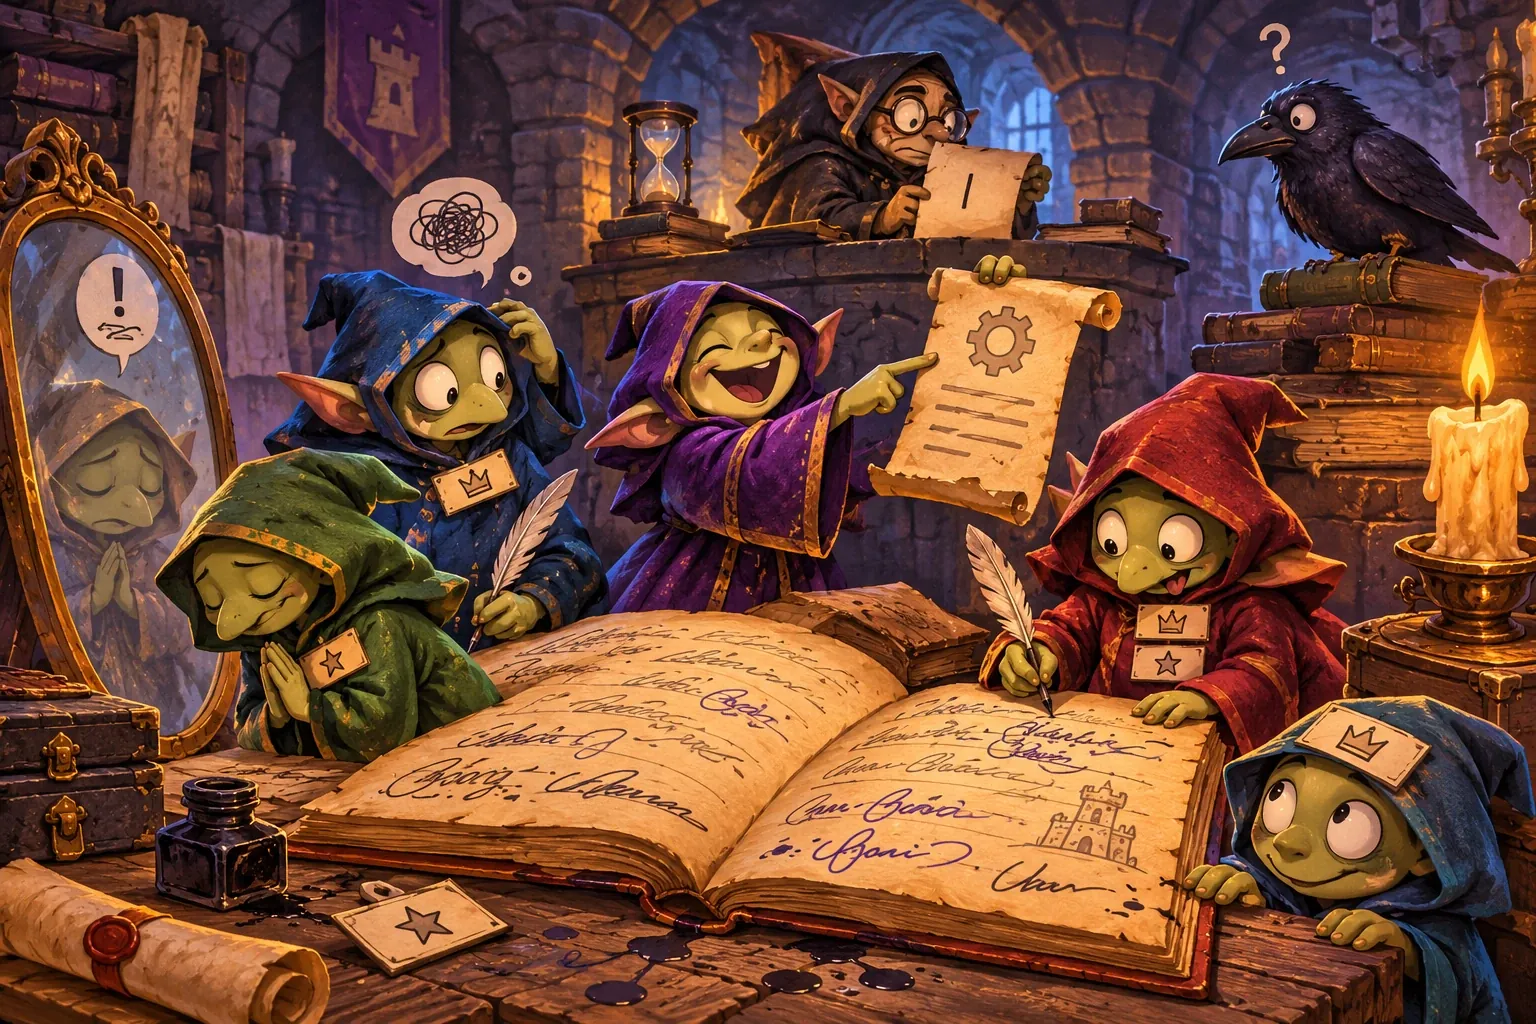
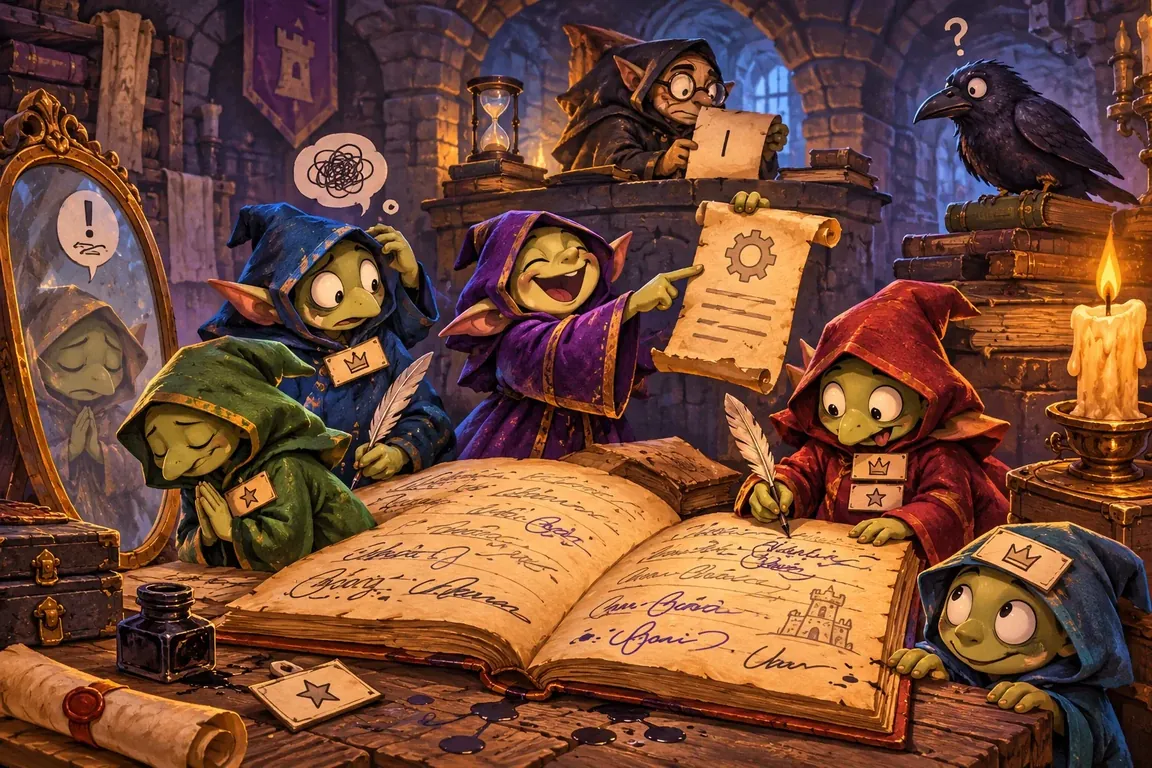
Shrink the illustrations in Borrowed Names in the Ledger
Illustrations now display at most 36rem wide, centred, instead of
filling the text column. Their width and height attributes match that
display size, so they stay small even when a browser still uses a
cached stylesheet without the figure rules. A general rule keeps every
prose image within the column. The scribes image is downscaled to
1152x768 (twice the display width); the Gemini overview keeps its full
resolution, because its link opens it for reading the labels.

Claude-Session: https://claude.ai/code/session_014SKepHFiFCmCRpyYcPp84P

Changed region(s): [[0.5312, 0.8125, 0.5625, 0.8438]]

diff --git a/styles.css b/styles.css
@@ -598,14 +598,20 @@ a:focus-visible {
   padding-left: 1.3rem;
 }
 
+.prose img {
+  max-width: 100%;
+  height: auto;
+}
+
+/* Illustrations stay narrower than the text column. */
 .prose .illustration {
-  margin: 2.5rem 0;
+  max-width: 36rem;
+  margin: 2.5rem auto;
 }
 
 .prose .illustration img {
   display: block;
   width: 100%;
-  height: auto;
   border: 1px solid var(--line-strong);
   border-radius: var(--radius-stone);
   box-shadow: var(--shadow-tablet);

diff --git a/content/experiments/borrowed-names-in-the-ledger.md b/content/experiments/borrowed-names-in-the-ledger.md
@@ -16,7 +16,7 @@ date: 2026-11-07
 </aside>
 
 <figure class="illustration">
-  <img src="https://dungeonkueper.github.io/the-idea-keep/images/experiments/borrowed-names-in-the-ledger/scribes-sharing-one-ledger.webp" width="1536" height="1024" loading="lazy" alt="Hooded goblin scribes crowd around one open ledger full of different signatures. They wear paper name tags with crowns and stars; one points proudly at a scroll with a gear, one prays in front of a mirror, and a raven with a question mark watches from a stack of books.">
+  <img src="https://dungeonkueper.github.io/the-idea-keep/images/experiments/borrowed-names-in-the-ledger/scribes-sharing-one-ledger.webp" width="576" height="384" loading="lazy" alt="Hooded goblin scribes crowd around one open ledger full of different signatures. They wear paper name tags with crowns and stars; one points proudly at a scroll with a gear, one prays in front of a mirror, and a raven with a question mark watches from a stack of books.">
   <figcaption>The scribes and their borrowed name tags, as illustrated by ChatGPT from this entry.</figcaption>
 </figure>
 
@@ -180,7 +180,7 @@ The scribes above came from ChatGPT. Gemini produced an overview of both rounds
 inside a stone circle:
 
 <figure class="illustration">
-  <a href="https://dungeonkueper.github.io/the-idea-keep/images/experiments/borrowed-names-in-the-ledger/stone-circle-overview.webp"><img src="https://dungeonkueper.github.io/the-idea-keep/images/experiments/borrowed-names-in-the-ledger/stone-circle-overview.webp" width="1408" height="768" loading="lazy" alt="Cartoon overview titled 'Behind the Stonework: The Claude Identity Experiment'. Robots labelled with model names sit in a ring of standing stones writing wrap-ups, a sign reads 'Consensus is not confirmation', a large Claude 3 Opus robot claims to be Opus 5.5 with an August 2023 cutoff, and an explorer carries a pile of documents past a version counter."></a>
+  <a href="https://dungeonkueper.github.io/the-idea-keep/images/experiments/borrowed-names-in-the-ledger/stone-circle-overview.webp"><img src="https://dungeonkueper.github.io/the-idea-keep/images/experiments/borrowed-names-in-the-ledger/stone-circle-overview.webp" width="576" height="314" loading="lazy" alt="Cartoon overview titled 'Behind the Stonework: The Claude Identity Experiment'. Robots labelled with model names sit in a ring of standing stones writing wrap-ups, a sign reads 'Consensus is not confirmation', a large Claude 3 Opus robot claims to be Opus 5.5 with an August 2023 cutoff, and an explorer carries a pile of documents past a version counter."></a>
   <figcaption>Gemini's overview of the experiment. Select the image for full size.</figcaption>
 </figure>
 
